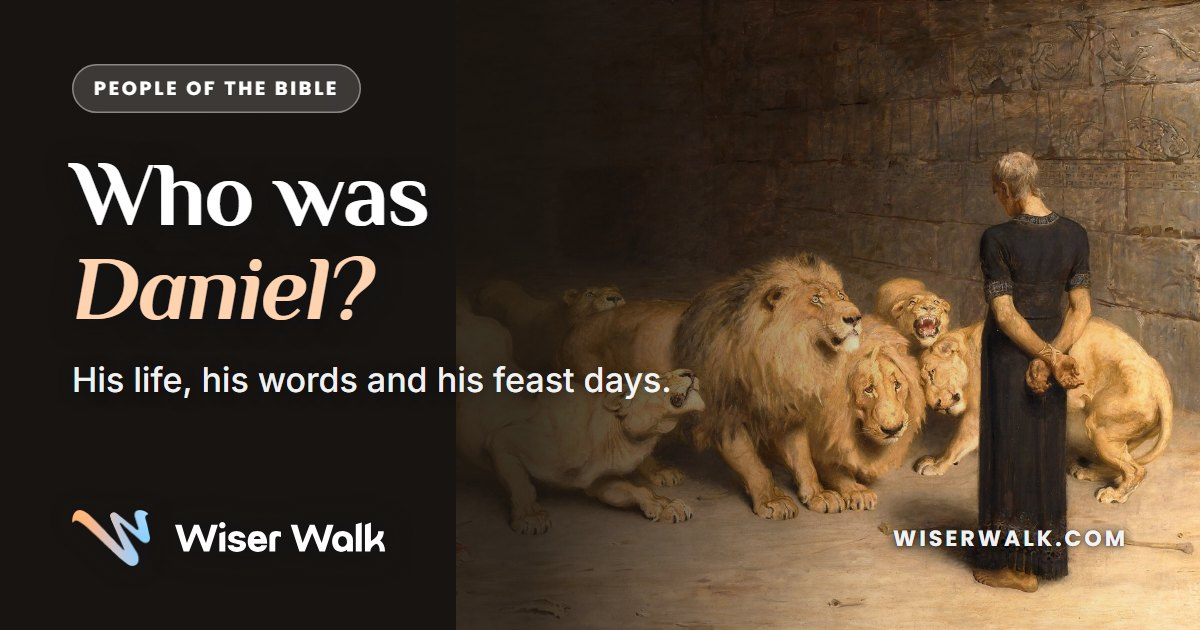
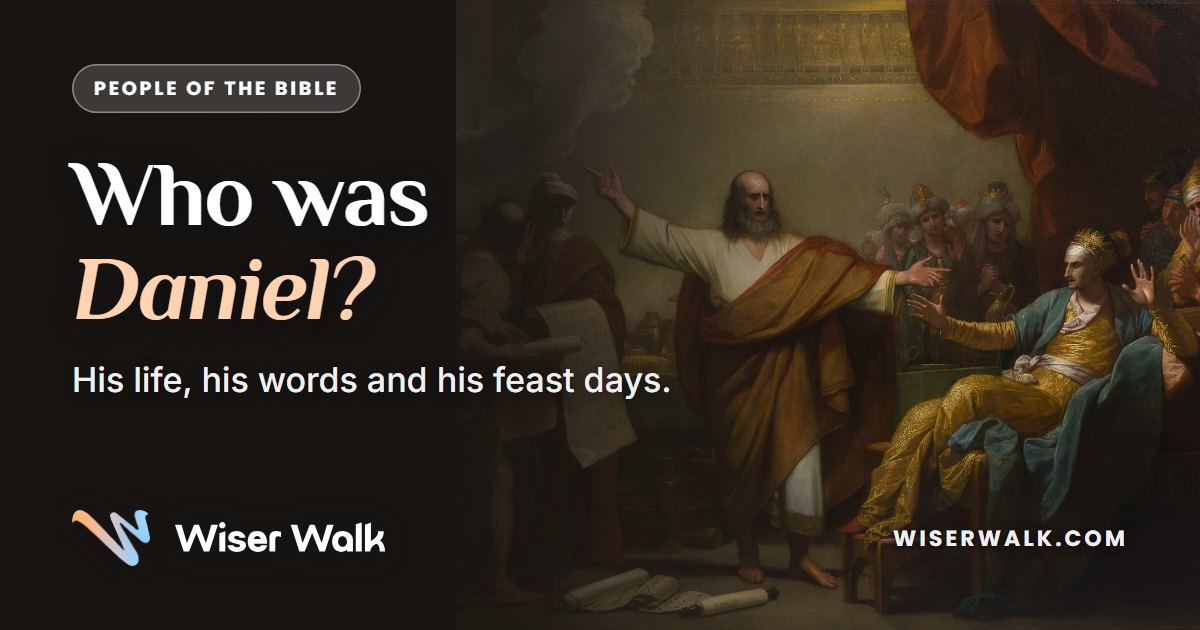
Daniel: West's writing on the wall as band and card, Riviere's lions in art, Foster's engraving for the Rubens; Joseph's card from the Zurbaran; the sticky search at .9rem

diff --git a/site/src/styles/pages/saints.css b/site/src/styles/pages/saints.css
@@ -158,7 +158,7 @@
   padding: 0 .95rem; border-radius: var(--r-pill); background: var(--shell); color: var(--ink-soft);
 }
 .fq:focus-within { box-shadow: inset 0 0 0 2px var(--accent); color: var(--accent); }
-.fq input { flex: 1; min-width: 0; border: 0; padding: 0; background: transparent; color: var(--ink); font-family: var(--ui); font-size: 1rem; outline: none; }
+.fq input { flex: 1; min-width: 0; border: 0; padding: 0; background: transparent; color: var(--ink); font-family: var(--ui); font-size: .9rem; outline: none; }
 .fq input::placeholder { color: var(--ink-soft); }
 .ftool-bar.is-stuck .people-count { display: none; }
 .ftool-bar.is-stuck .fq { display: flex; }

diff --git a/site/public/img/CREDITS.md b/site/public/img/CREDITS.md
@@ -422,15 +422,15 @@ long side.
 | gideon-primer-card.jpg | The Saints hub card, cut from the same plate around Gideon's face: box (705,364)-(1085,839) of the 1920 px thumbnail, saved at its own 380 x 475 | same file as gideon-primer-band.jpg | Public domain |
 | joseph-girodet-band.jpg | Joseph Recognised by His Brothers, Anne-Louis Girodet, 1789, École nationale supérieure des Beaux-Arts, Paris (photograph by VladoubidoOo). The page's band, the owner's choice. Saved at its own 987 x 768 (no larger copy on Commons) | `Girodet Joseph reconnu par ses frères.JPG` (987 x 768) | Public domain |
 | joseph-prison.jpg | Joseph Faithful in Prison, a Bible picture card published by the Providence Lithograph Company, 1907. The page's portrait, the owner's choice. At its own 770 x 876 | `Joseph Faithful in Prison.jpg` (770 x 876) | Public domain |
-| joseph-card.jpg | Jacob Blessing the Children of Joseph, Rembrandt, 1656, Museum Schloss Wilhelmshöhe, Kassel: Joseph's face, cut for the hub card (the painting was the page's band until the owner chose Girodet's) | Public domain (PD-Art, PD-old) | https://commons.wikimedia.org/wiki/File:Rembrandt_van_Rijn_-_Jacob_blessing_Ephraim_and_Manasseh_(Gem%C3%A4ldegalerie_Alte_Meister_Kassel).jpg |
 | ruth-schnorr-card.jpg | The Saints hub card, cut from Ruth in Boaz's Field, Julius Schnorr von Carolsfeld, 1828, the National Gallery, London (the portrait's painting), around Ruth's face: box (2445,498)-(2965,1148) of the 3840 px thumbnail, 480 x 600, the owner's choice | `Julius Schnorr von Carolsfeld- Ruth im Feld des Boaz.jpg` | Public domain (PD-art, PD-old-100-1923) |
 | john-the-baptist-titian.jpg | Saint John the Baptist, Titian, about 1540 to 1542, Gallerie dell'Accademia, Venice; photograph by Didier Descouens, 2016. The page's portrait, the owner's choice of painting (he named `Titian-John the Baptist.jpg`, 643 x 970, too small for a card, so this photograph of the same painting is used for both). From the 3840 px thumbnail, resized to 1010 x 1500 | `Accademia - St John the Baptist by Titian Cat314.jpg` (4319 x 6413) | Public domain |
 | john-the-baptist-titian-card.jpg | The Saints hub card, cut from the same photograph around John's face: box (1350,452)-(2250,1577) of the 3840 px thumbnail, 480 x 600 | same file as john-the-baptist-titian.jpg | Public domain |
-| daniel-riviere-band.jpg | Daniel in the Lions' Den, Briton Rivière, 1872, Walker Art Gallery, Liverpool (WAG 2700). The page's band, the owner's choice. The Commons copy is a 'warmed image', warmer and more saturated than the painting; the band's credit says so. At its own 1600 x 1006 | `Daniel in the Lions' Den, by Briton Rivière, warmed image.jpg` (1600 x 1006) | Public domain |
-| daniel-west.jpg | Daniel Interpreting to Belshazzar the Writing on the Wall, Benjamin West, 1775, oil on canvas, Saint Louis Art Museum 485:2018. The page's portrait, the owner's choice. The museum's own download (5676 x 3934), resized to 1500 x 1040 | Saint Louis Art Museum, https://www.slam.org/collection/objects/63403/ (not Commons) | Public domain (the museum's rights statement) |
+| daniel-riviere-band.jpg | Daniel in the Lions' Den, Briton Rivière, 1872, Walker Art Gallery, Liverpool (WAG 2700). The page's first In art picture (it was the band until the owner swapped them, 2026-09-25)., the owner's choice. The Commons copy is a 'warmed image', warmer and more saturated than the painting; the band's credit says so. At its own 1600 x 1006 | `Daniel in the Lions' Den, by Briton Rivière, warmed image.jpg` (1600 x 1006) | Public domain |
 | daniel-schnorr.jpg | The Prophet Daniel (the writing on the wall), woodcut, Julius Schnorr von Carolsfeld, 1860. The page's first gallery picture, the owner's choice. The Commons file as it is, 1184 x 1013 | `The Prophet Daniel.jpg` (1184 x 1013) | Public domain |
-| daniel-schnorr-card.jpg | The Saints hub card, cut from the same woodcut around Daniel's face: box (464,1)-(732,336), saved at its own 268 x 335 (his face is near the top of a small file, so a 480 x 600 card would be enlarged) | same file as daniel-schnorr.jpg | Public domain |
-| daniel-rubens.jpg | Daniel in the Lions' Den, Peter Paul Rubens, about 1614 to 1616 (the museum's date), National Gallery of Art, Washington. The page's second gallery picture: the owner's better copy of the painting, now shown whole. From the 3840 px thumbnail, resized to 1200 x 813 | `Daniel in the Lions' Den 1613-1615 Peter Paul Rubens.jpg` (4000 x 2709) | Public domain |
+| daniel-west-band.jpg | Daniel Interpreting to Belshazzar the Writing on the Wall, Benjamin West, 1775, Saint Louis Art Museum. The page's band (the owner swapped it with the Rivière, 2026-09-25). The museum's free 5676 x 3934 download, resized whole to 1800 x 1248 | Saint Louis Art Museum, https://www.slam.org/collection/objects/63403/ (not Commons) | Public domain (the museum's own marking) |
+| daniel-west-card.jpg | The Saints hub card, cut from the same West painting around Daniel's face (box 1820,831 to 2720,1956 of the download), 480 x 600, the owner's choice | as for daniel-west-band.jpg | Public domain |
+| daniel-foster.jpg | Daniel in the Den of Lions, an engraving in Bible Pictures, with brief descriptions by Charles Foster, Philadelphia, 1897. A gallery picture, shown on wide screens only, the owner's choice in place of the Rubens. The scan's grey edges trimmed, resized to 911 x 1200 | `Foster Bible Pictures 0011-1.jpg` (1774 x 2274) | Public domain |
+| joseph-zurbaran-card.jpg | The Saints hub card, cut at its own size (460 x 575) around Joseph's face from joseph-3.jpg, Zurbarán's Joseph (Jacob and His Twelve Sons, 1640s, Auckland Castle), the owner's choice | as for joseph-3.jpg | Public domain |
 
 ## Another licence: the Saints hub (`saints/`)
 
